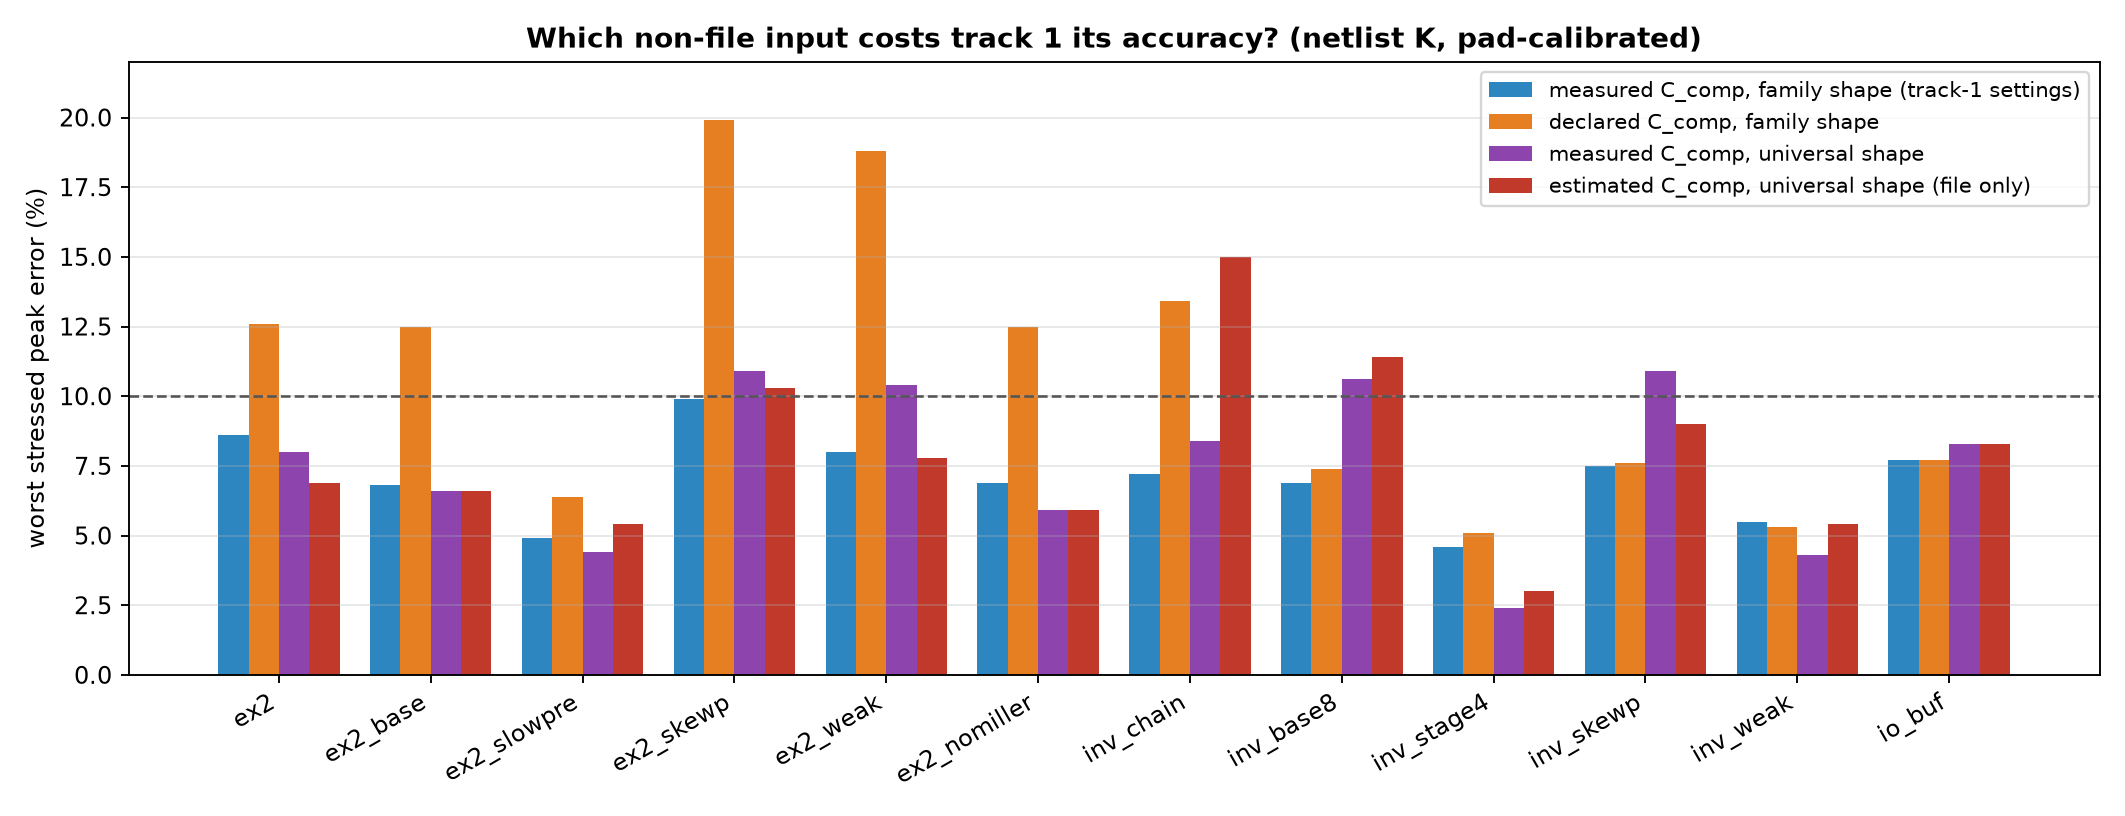
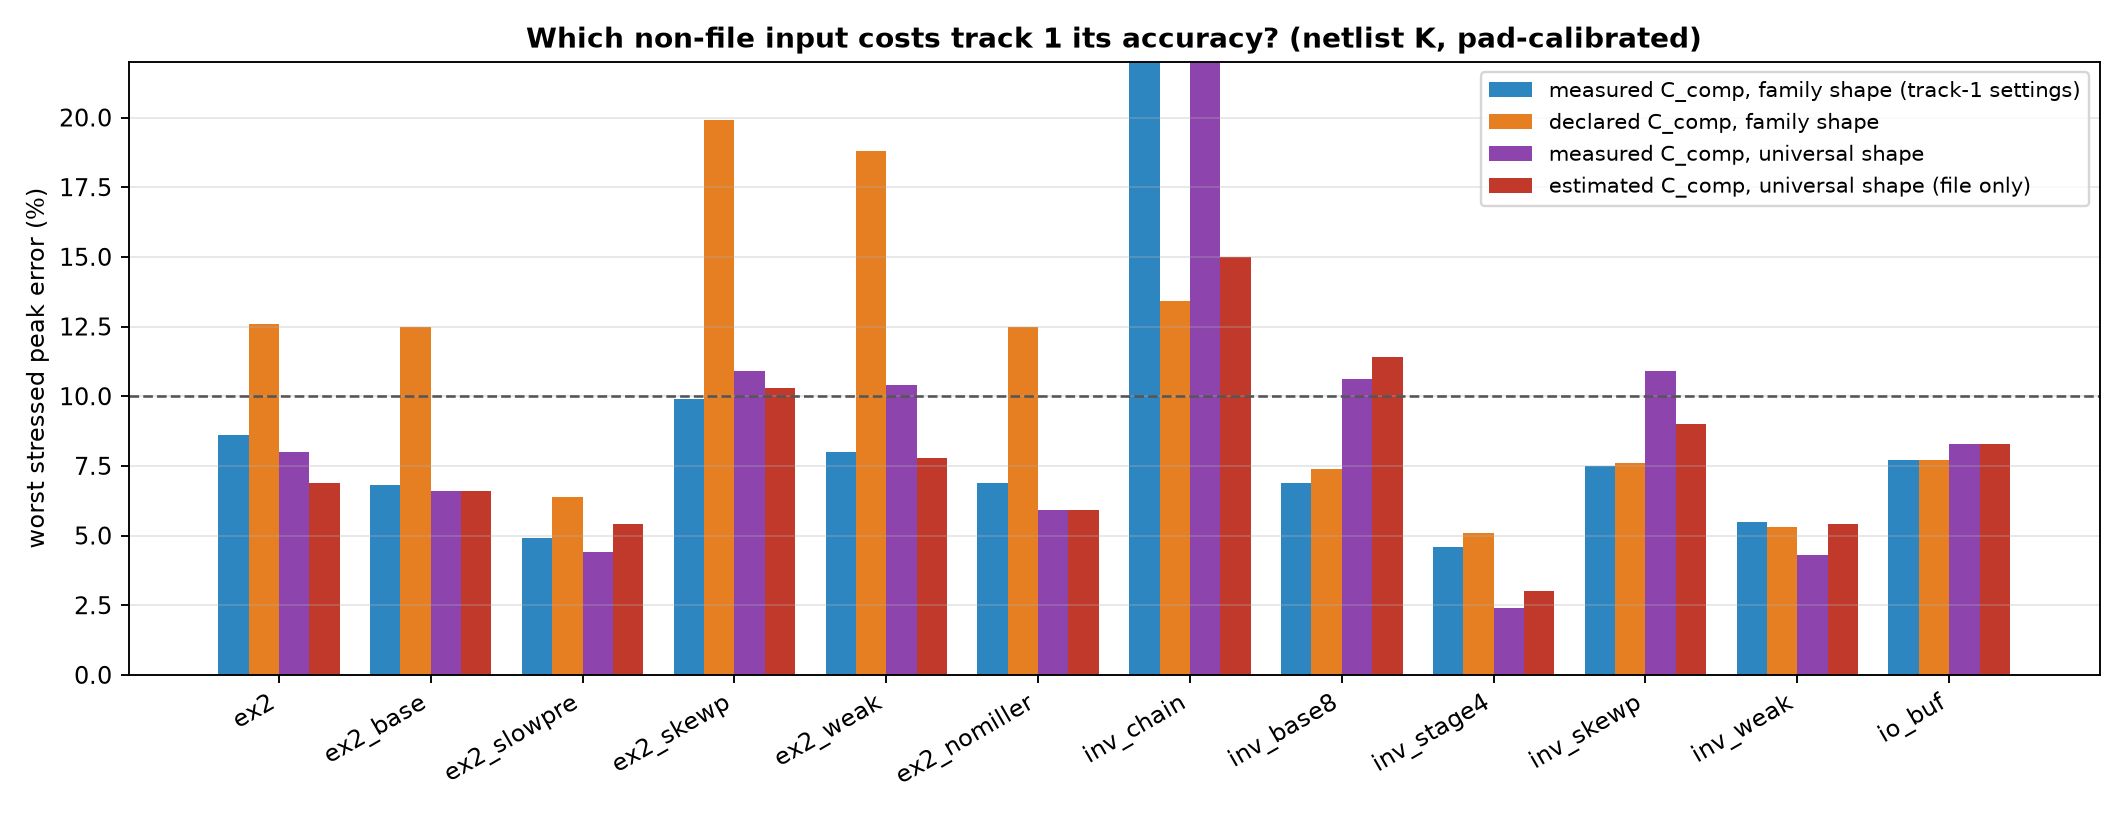
Rebuild the measured-C_comp passes on today's converter: inv_chain is 26 %, not 7
Steps 2 and 4b read shipped models cached on 2026-09-09, which carry input_threshold 1.4 V -
the 2 V Vinh inv_chain's IBIS declares on a 1.8 V part. Step 7 rebuilds both at the netlist K
with models generated today, where the converter clamps that to 0.9 V.

Only inv_chain moves: step 2 from 7.2 to 25.8 %, step 4b from 8.4 to 28.6 %. Every other
buffer is identical to the decimal, so the I-V clamping the converter also added changes
nothing on its own. The track-1 baseline is 11 of 12 within 10 %, not 12 of 12.

What inv_chain's error is: at the worst width its gate is right (0.95 against 0.94) and the
pad is still 26 % high, so it is the map, not the gate. The single-curve test removes the
handoff step between the file's two Ku curves (KUGATE_OFF := KUGATE_ON) and recovers a third
of it, 25.8 -> 17.4 %, with 15 ps better timing. The rest is still open: with one curve the
model is +16-17 % at the widths where its gate already matches.

Changed region(s): [[0.528, 0.0613, 0.5901, 0.5821]]

diff --git a/scripts/stage_count_from_file.py b/scripts/stage_count_from_file.py
@@ -20,6 +20,7 @@ calibrate the stage threshold on the one stressed pad run, score the five stress
     py -3.14 scripts/stage_count_from_file.py --step 4 [--workers 4]     # step 3's two inputs, one at a time
     py -3.14 scripts/stage_count_from_file.py --step 5 [--workers 4]     # file-only, C_comp from ccomp_from_file.py
     py -3.14 scripts/stage_count_from_file.py --step 6 [--workers 4]     # the whole chain from the file alone
+    py -3.14 scripts/stage_count_from_file.py --step 7 [--workers 8]     # steps 2 and 4b on today's converter
 
 Step 2 needs `--Kd` in gate_chain_prototype.py (io_buf's pull-down chain count), added 09-21.
 """
@@ -248,6 +249,7 @@ def summarise() -> None:
 FILE_MODELS = OUT / "file_only_models"          # shipped models at the declared C_comp
 EST_MODELS = OUT / "est_cc_models"              # shipped models at the file-only C_comp estimate
 KNEE_MODELS = OUT / "knee_models"               # shipped models at the knee estimate (step 6)
+MEAS_MODELS = OUT / "measured_cc_models"        # shipped models at the measured C_comp, today's converter
 PASSES = {"step2":  dict(pass_="as_track1", cc="measured", shape="family", models=None),
           "step3":  dict(pass_="file_only", cc="declared", shape="universal", models=FILE_MODELS),
           "step4a": dict(pass_="declared_cc_family_shape", cc="declared", shape="family", models=FILE_MODELS),
@@ -258,7 +260,12 @@ PASSES = {"step2":  dict(pass_="as_track1", cc="measured", shape="family", model
           # step 6: the whole chain from the file - C_comp from the overshoot knee (which can
           # correct upward, unlike step 5's cap at the declared value), K from the fit band and
           # the one stressed pad run's timing, universal shape
-          "step6":  dict(pass_="est_knee", cc="estimate_knee", shape="universal", models=KNEE_MODELS)}
+          "step6":  dict(pass_="est_knee", cc="estimate_knee", shape="universal", models=KNEE_MODELS),
+          # step 7: steps 2 and 4b again, with models generated by today's converter instead of
+          # the 2026-09-09 cache (input_threshold 1.4 -> 0.9 on the inverter chains, and the I-V
+          # lookups clamped to the table range on every buffer)
+          "step2f":  dict(pass_="as_track1_fresh", cc="measured", shape="family", models=MEAS_MODELS),
+          "step4bf": dict(pass_="measured_cc_universal_fresh", cc="measured", shape="universal", models=MEAS_MODELS)}
 EST_CC_CSV = ROOT / "results" / "ccomp_from_file_2026-09-22" / "ccomp_from_file.csv"
 EST_TOL = 0.02                                  # the Ku-overshoot tolerance the estimate uses
 
@@ -505,6 +512,25 @@ def plateau_band(dev: str, chain: str = "pull-up") -> list[int]:
     raise KeyError(f"no est_knee fit for {dev} {chain}")
 
 
+def step7(workers: int) -> None:
+    """Rebuild the measured-C_comp passes at the netlist K with today's converter (24 builds)."""
+    jobs = [(dev, BUFFERS[dev]["k_net"][0], BUFFERS[dev]["k_net"][1], step)
+            for step in ("step2f", "step4bf") for dev in BUFFERS]
+    todo = [j for j in jobs if not (build_dir(j[3], *j[:3]) or Path("_none")).joinpath("sweep.csv").exists()]
+    if len(todo) < len(jobs):
+        print(f"  {len(jobs) - len(todo)} builds already complete, skipped", flush=True)
+    print(f"step 7: {len(todo)} builds on {workers} workers", flush=True)
+    with ProcessPoolExecutor(max_workers=workers) as ex:
+        futs = {ex.submit(build_job, *j): j for j in todo}
+        for f in as_completed(futs):
+            j = futs[f]
+            try:
+                print(f"  done {j}: {f.result()}", flush=True)
+            except Exception as exc:
+                print(f"  FAILED {j}: {exc!r}", flush=True)
+    summarise4()
+
+
 def step6(workers: int, band: str = "plateau") -> None:
     """The whole recipe from the file: C_comp from the overshoot knee, K = 1...10 fitted to THAT
     model's full-swing Ku(t), a band of K built, and the K whose pad timing matches the one
@@ -602,10 +628,11 @@ def summarise4() -> None:
     matplotlib.use("Agg")
     import matplotlib.pyplot as plt
     have5 = (OUT / "step5").exists()
-    for s in ("step4a", "step4b") + (("step5",) if have5 else ()):
+    fresh = [s for s in ("step2f", "step4bf") if (OUT / s).exists()]
+    for s in ("step4a", "step4b") + (("step5",) if have5 else ()) + tuple(fresh):
         summarise2(s)
     rows = {}
-    for s in ("step2", "step3", "step4a", "step4b", "step5"):
+    for s in ("step2", "step3", "step4a", "step4b", "step5", "step2f", "step4bf"):
         p = OUT / f"{s}_summary.csv"
         if not p.exists():
             continue
@@ -624,6 +651,16 @@ def summarise4() -> None:
                     rows[(dev, s)] = rows[(dev, same)]
         if (dev, "step5") not in rows and (dev, "step3") in rows                 and abs(est_cc(dev) - declared[dev]) <= 0.01 * declared[dev]:
             rows[(dev, "step5")] = rows[(dev, "step3")]
+    # a pass rebuilt with today's converter replaces its cached original in the table
+    swapped = []
+    for stale, new in (("step2", "step2f"), ("step4b", "step4bf")):
+        for dev in BUFFERS:
+            if (dev, new) in rows:
+                was = rows.get((dev, stale), {}).get("worst_abs_pct", "")
+                now = rows[(dev, new)]["worst_abs_pct"]
+                rows[(dev, stale)] = rows[(dev, new)]
+                if was and abs(float(was) - float(now)) >= 0.5:
+                    swapped.append(f"{dev} {stale}: {was} -> {now} %")
     order = [("step2", "measured C_comp, family shape (track-1 settings)"),
              ("step4a", "declared C_comp, family shape"),
              ("step4b", "measured C_comp, universal shape"),
@@ -669,6 +706,8 @@ def summarise4() -> None:
     fig.tight_layout()
     fig.savefig(OUT / "step4_split.png", dpi=170)
     plt.close(fig)
+    if swapped:
+        print("  rebuilt with today's converter (was cached 09-09): " + "; ".join(swapped))
     print(f"  wrote step4_split.csv, step4_split.png")
 
 
@@ -791,7 +830,7 @@ def selectors(step: str = "step2") -> None:
 
 def main() -> int:
     ap = argparse.ArgumentParser()
-    ap.add_argument("--step", type=int, choices=(1, 2, 3, 4, 5, 6), required=True)
+    ap.add_argument("--step", type=int, choices=(1, 2, 3, 4, 5, 6, 7), required=True)
     ap.add_argument("--workers", type=int, default=4)
     ap.add_argument("--summarise", action="store_true")
     ap.add_argument("--band", choices=("plateau", "fit", "family"), default="plateau",
@@ -806,6 +845,8 @@ def main() -> int:
         summarise4() if args.summarise else step5(args.workers)
     elif args.step == 6:
         summarise6() if args.summarise else step6(args.workers, args.band)
+    elif args.step == 7:
+        summarise4() if args.summarise else step7(args.workers)
     else:
         step = f"step{args.step}"
         summarise2(step) if args.summarise else step2(args.workers, step)

diff --git a/scripts/inv_chain_single_curve.py b/scripts/inv_chain_single_curve.py
@@ -1,0 +1,105 @@
+#!/usr/bin/env python3
+"""Is inv_chain's 26 % the handoff between the two Ku curves?
+
+At the track-1 settings inv_chain's gate is right at the worst width (0.95 against a
+transistor 0.94) and its pad is still 26 % high, so the error is in the map, not the gate.
+The suspect is the handoff: the file's falling Ku table sits ~19 ps early against the gate, so
+KUGATE_OFF reads 0.49 where KUGATE_ON reads 0.96 at the same gate. A stressed pulse turns
+round in exactly that region.
+
+Three builds of the same model, differing only in the pull-up map:
+
+    as_built   the file's two curves (the step-7 build, reproduced here as the control)
+    one_curve  KUGATE_OFF := KUGATE_ON - one curve both ways, no handoff step at all
+    average    KUGATE_OFF := (KUGATE_ON + KUGATE_OFF) / 2 - half the step
+
+If the 26 % collapses under one_curve, the handoff is the cause. If it does not, the map is
+wrong in a way the two curves share.
+
+Output: results/inv_chain_single_curve_2026-09-22/
+
+    py -3.14 scripts/inv_chain_single_curve.py
+"""
+from __future__ import annotations
+
+import contextlib
+import csv
+import io
+import re
+import shutil
+import sys
+from pathlib import Path
+
+ROOT = Path(__file__).resolve().parents[1]
+for _p in (ROOT / "scripts", ROOT / "tools" / "pybis2spice", ROOT / ".codex_deps" / "presentation" / "python"):
+    if str(_p) not in sys.path:
+        sys.path.insert(0, str(_p))
+
+import numpy as np  # noqa: E402
+import stage_count_from_file as sc  # noqa: E402
+
+OUT = ROOT / "results" / "inv_chain_single_curve_2026-09-22"
+DEV, K, CC = "inv_chain", 7, 0.6
+SRC = sc.MEAS_MODELS / f"{DEV}_c{CC:g}" / "shipped" / "driver.sub"       # step 7's model, today's converter
+
+
+def table(text: str, name: str):
+    """The (gate, value) pairs of one B-source pwl table, with the text around it."""
+    line = re.search(rf"^B{name} {name} 0 V = pwl\(.*$", text, re.M).group(0)
+    head, body = line.split("), 1),", 1)
+    nums = [float(x) for x in re.findall(r"[-+]?\d*\.?\d+(?:[eE][-+]?\d+)?", body)]
+    return line, head + "), 1),", np.array(nums).reshape(-1, 2)
+
+
+def remap(text: str, mode: str) -> str:
+    if mode == "as_built":
+        return text
+    on_line, _on_head, on = table(text, "KUGATE_ON")
+    off_line, off_head, off = table(text, "KUGATE_OFF")
+    off_at_on_gate = np.interp(on[:, 0], off[:, 0], off[:, 1])
+    y = on[:, 1] if mode == "one_curve" else 0.5 * (on[:, 1] + off_at_on_gate)
+    new = off_head + " " + ", ".join(f"{g:.6g}, {v:.6g}" for g, v in zip(on[:, 0], y)) + ")"
+    return text.replace(off_line, new)
+
+
+def main() -> int:
+    OUT.mkdir(parents=True, exist_ok=True)
+    gp, gch, _ = sc._modules()
+    base = SRC.read_text(encoding="utf-8")
+    rows = []
+    for mode in ("as_built", "one_curve", "average"):
+        mdir = OUT / "models" / f"{DEV}_c{CC:g}" / "shipped"
+        mdir.mkdir(parents=True, exist_ok=True)
+        (mdir / "driver.sub").write_text(remap(base, mode), encoding="utf-8")
+        shutil.rmtree(OUT / mode, ignore_errors=True)
+        gch.OUT = OUT / mode
+        gch.G = OUT / "models"
+        sys.argv = ["gate_chain_prototype", "--variant", DEV, "--source", "ibis", "--maps", "prior",
+                    "--K", str(K), "--calib-pad", str(sc.BUFFERS[DEV]["calib"]),
+                    "--ccomp", f"{CC:g}", "--prior", "0.49", "0.6"]
+        log = io.StringIO()
+        with contextlib.redirect_stdout(log):
+            gch.main()
+        (OUT / mode).mkdir(parents=True, exist_ok=True)
+        (OUT / mode / "run.log").write_text(log.getvalue(), encoding="utf-8")
+        for p in sorted((OUT / mode / f"{DEV}_c{CC:g}").glob(f"ibis_prior_K{K}_*/sweep.csv")):
+            for r in list(csv.DictReader(p.open())):
+                pk = [float(v) for k, v in r.items() if k.startswith("pk_d")]
+                lag = [float(v) for k, v in r.items() if k.startswith("lag_d")]
+                rows.append(dict(mode=mode, model="shipped" if not r["K"] else f"chain K={r['K']}",
+                                 worst_peak_pct=f"{max(map(abs, pk)):.1f}",
+                                 peaks_pct=" / ".join(f"{x:+.1f}" for x in pk),
+                                 lag_ps=" / ".join(f"{x:.0f}" for x in lag),
+                                 full_pad_rms_mV=r["full_pad_rms_mV"],
+                                 gate=" / ".join(v for k, v in r.items() if k.startswith("gate_d"))))
+        print(f"  {mode:10s} " + (rows[-1]["worst_peak_pct"] + " %  " + rows[-1]["peaks_pct"] if rows else "no result"), flush=True)
+    with (OUT / "single_curve.csv").open("w", newline="") as fh:
+        w = csv.DictWriter(fh, fieldnames=list(rows[0]))
+        w.writeheader()
+        w.writerows(rows)
+    print(f"wrote {OUT / 'single_curve.csv'}")
+    return 0
+
+
+if __name__ == "__main__":
+    raise SystemExit(main())

diff --git a/scripts/make_results_index.py b/scripts/make_results_index.py
@@ -21,7 +21,7 @@ GROUPS = [
      r"^(gate_chain_prototype|stage_count_from_file|build_chain_model|gate_cascade_prototype|gate_ramp_prototype|"
      r"gate_step_prototype|gate_chain_train_calib|predriver_stages|physics_map_gate|current_limited_stages|gate_physics|"
      r"full_swing_fixtures|full_swing_silicon_kukd|residual_depth_rule|variant_gate_probe|silicon_kukd_conditioning_2026-09|"
-     r"ex2_ccomp_correction|edge_rate_check|two_pulse|review_|ccomp_from_file)"),
+     r"ex2_ccomp_correction|edge_rate_check|two_pulse|review_|ccomp_from_file|inv_chain_single_curve)"),
     ("Pulse trains", "", r"^(pulse_train|track2_train_check|variant_train_check)"),
     ("Open-drain", "", r"^(opendrain_|s2ibispy_parameter_selection_ex2_od_)"),
     ("Native IBIS behaviour", "", r"^native_"),

diff --git a/results/stage_count_from_file_2026-09-21/FINDINGS.md b/results/stage_count_from_file_2026-09-21/FINDINGS.md
@@ -125,13 +125,13 @@ against 54 mV).
 | ex2_skewp | 9.9 | 20.4 |
 | ex2_weak | 8.0 | 19.4 |
 | ex2_nomiller | 6.9 | 14.1 |
-| inv_chain | 7.2 | 15.0 (K = 6: 12.8) |
+| inv_chain | 25.8 | 15.0 (K = 6: 12.8) |
 | inv_base8 | 6.9 | 12.5 |
 | inv_stage4 | 4.6 | 3.6 |
 | inv_skewp | 7.5 | 9.5 |
 | inv_weak | 5.5 | 6.1 |
 | io_buf | 7.7 | 8.3 |
-| **within +-10 %** | **12 of 12** | **5 of 12** |
+| **within +-10 %** | **11 of 12** | **5 of 12** |
 
 The ex2-family misses are one-sided: 12-22 % low at the mildest widths, near zero at the 50 %
 width where the threshold is placed. Step 3 changed two inputs at once, so which one costs the
@@ -157,13 +157,18 @@ Worst stressed peak error at the netlist K (%):
 | ex2_skewp | 9.9 | 19.9 | 10.9 | 20.4 |
 | ex2_weak | 8.0 | 18.8 | 10.4 | 19.4 |
 | ex2_nomiller | 6.9 | 12.5 | 5.9 | 14.1 |
-| inv_chain | 7.2 | 13.4 | 8.4 | 15.0 |
+| inv_chain | 25.8 | 13.4 | 28.6 | 15.0 |
 | inv_base8 | 6.9 | 7.4 | 10.6 | 12.5 |
 | inv_stage4 | 4.6 | 5.1 | 2.4 | 3.6 |
 | inv_skewp | 7.5 | 7.6 | 10.9 | 9.5 |
 | inv_weak | 5.5 | 5.3 | 4.3 | 6.1 |
 | io_buf | 7.7 | 7.7 | 8.3 | 8.3 |
-| **within ±10 %** | **12 of 12** | **6 of 12** | **8 of 12** | **5 of 12** |
+| **within ±10 %** | **11 of 12** | **6 of 12** | **7 of 12** | **5 of 12** |
+
+*(Corrected by step 7 on 09-22: the table now uses models generated by today's converter
+throughout. Only inv_chain moved - step 2 from 7.2 to 25.8 %, step 4b from 8.4 to 28.6 % - so
+the counts fell by one. Every other buffer is identical to the decimal, which also shows the
+I-V clamping the converter added changes nothing on its own.)*
 
 * **ex2 family and inv_chain: the declared C_comp is the whole loss.** The declared C_comp
   alone (4a) lands within 1.6 points of step 3 on all seven. The universal shape alone (4b)
@@ -261,8 +266,50 @@ inverter-chain buffers (1.4 -> 0.9); the ex2 family and io_buf are identical in 
 
 inv_chain aside, this means **the model's real error on inv_chain is about 26-29 %, not the
 7-8 % steps 2-5 reported** - and that is a property of the shipped gate-state build, not of
-track 1. Rebuilding steps 2 and 4b for the five inverter chains with today's converter is the
-fix; not done yet.
+track 1. Step 7 rebuilds steps 2 and 4b on today's converter so the tables compare one
+version.
+
+### What inv_chain's error actually is: a gate cliff where the transistor has a ramp
+
+Per width (135 / 119 / 111 / 106 / 104 ps), from the step-6 sweep:
+
+| | 135 | 119 | 111 | 106 | 104 |
+|---|---:|---:|---:|---:|---:|
+| transistor gate maximum | 1.00 | 0.99 | 0.97 | 0.94 | 0.88 |
+| our gate maximum (K = 6) | 1.00 | 1.00 | 1.00 | 1.00 | 0.84 |
+| pad peak error | +2.4 | +8.7 | +19.5 | **+34.2** | +15.9 % |
+| the shipped model, same widths | +1.6 | +7.1 | +18.0 | +36.5 | +65.1 % |
+
+The real gate rolls off gently as the pulse narrows; ours stays pinned at 1.00 until it
+collapses at the last width. At 106 ps a gate deficit of 0.06 costs 34 % on the pad, in line
+with the known sensitivity (~4 % pad per 0.01 of gate). ex2, where the same recipe works,
+tracks the partial gate at every width (0.91/0.84/0.80/0.75/0.71 against 0.94/0.88/0.84/0.80/
+0.76) and stays within 8 %.
+
+So inv_chain's failure is not the stage count - K = 6, 7 and 8 all sit at 1.00 at 106 ps - and
+not C_comp. It is the same pulse-swallowing cliff seen on 09-10: between passing the pulse
+whole and swallowing it, our chain has no gradual region. Our chain still beats the shipped
+model only at the deepest width (+15.9 against +65.1).
+
+**The rebuild (step 7) then moved the diagnosis.** At the track-1 settings with today's
+converter, inv_chain is **25.8 %**, not the 7.2 % the cached build reported:
+
+| | 135 | 119 | 111 | 106 | 104 |
+|---|---:|---:|---:|---:|---:|
+| shipped model, pad | +1.7 | +8.4 | +18.2 | +36.7 | +65.9 % |
+| our chain K = 7, pad | +3.0 | +9.6 | +19.2 | **+25.8** | +4.1 % |
+| our gate / transistor gate | 1.00/1.00 | 1.00/0.99 | 0.99/0.97 | **0.95/0.94** | 0.77/0.88 |
+
+At the worst width the gate is right (0.95 against 0.94) and the pad is still 26 % high; at
+the narrowest the gate is 0.11 *low* and the pad is only 4 % high. **The pad error does not
+follow the gate error**, so the gate cliff is not the main cause on this buffer - the Ku-vs-gate
+map is. That is inv_chain's known handoff discontinuity: the file's falling Ku curve sits 19 ps
+early against the gate, so ku_fall reads 0.49 where ku_rise reads 0.96 at the same gate.
+
+Next test, in order: (1) one Ku curve used both ways (ku_fall := ku_rise, and the average of
+the two) - if the 26 % collapses, the handoff is the cause; (2) the calibration width, which
+is currently the deepest and sits at the cliff edge - it also answers which stressed pulse the
+single characterisation run should use.
 
 ## Step 5 (09-22): C_comp from the file, and track 1 reaches 9 of 12
 

diff --git a/results/inv_chain_single_curve_2026-09-22/FINDINGS.md b/results/inv_chain_single_curve_2026-09-22/FINDINGS.md
@@ -1,0 +1,47 @@
+# Is inv_chain's 26 % the handoff between the two Ku curves? - findings
+
+*2026-09-22* · script `scripts/inv_chain_single_curve.py` · follows step 7 of
+`results/stage_count_from_file_2026-09-21`
+
+## Why ask
+
+With today's converter (input threshold clamped to 0.9 V) inv_chain's error at the track-1
+settings is **25.8 %**, not the 7.2 % the cached 09-09 models reported. At the worst width its
+gate is right - 0.95 against the transistor's 0.94 - and the pad is still 26 % high, so the
+error is in the map, not the gate. The suspect: the file's falling Ku table sits ~19 ps early
+against the gate, so `KUGATE_OFF` reads 0.49 where `KUGATE_ON` reads 0.96 at the same gate,
+and a stressed pulse turns round in exactly that region.
+
+## The test
+
+Three builds of one model (K = 7, C_comp 0.60, family shape), differing only in the pull-up
+map: the file's two curves as built; `KUGATE_OFF := KUGATE_ON` (one curve both ways, no
+handoff step); and the average of the two. `single_curve.csv`.
+
+| map | worst peak | peaks, 135 / 119 / 111 / 106 / 104 ps | lag (ps) | full swing |
+|---|---:|---|---|---:|
+| as built | 25.8 % | +3.0 / +9.6 / +19.2 / +25.8 / +4.1 | 44-67 | 54 mV |
+| **one curve** | **17.4 %** | +2.4 / +8.0 / +16.2 / +17.4 / -10.7 | 33-50 | 39 mV |
+| average | 24.4 % | +0.2 / +5.7 / +14.6 / +24.4 / -3.1 | 69-100 | 89 mV |
+
+## What it says
+
+* **The handoff is worth about a third of the error**: 25.8 -> 17.4 %, and the pad arrives
+  ~15 ps earlier as well. Removing the step between the two curves helps on every width.
+* **It is not the whole story.** With one curve the model is still +16-17 % at 111 and 106 ps,
+  the widths where its gate already matches the transistor to 0.01-0.02. Something other than
+  the gate and other than the handoff over-drives the pad there.
+* **Averaging the curves is not a fix** - it halves the step but costs 25-35 ps of timing and
+  doubles the full-swing error, because it drags the rising branch down as well.
+* The same map edit moves the shipped model by only 1-2 points (65.9 -> 64.0 %), so the
+  handoff matters to the chain build, not to the shipped one. The shipped model's 66 % at the
+  narrowest width is a separate, larger failure.
+
+## Open
+
+What over-drives the pad at 106-111 ps with the gate correct and the handoff removed. Two
+candidates, neither tested: the rising branch's **level** (inv_chain's map is a 2-parameter
+prior fitted to the file, vt 0.49 / alpha 0.60 - the measured Ku-vs-gate curve may sit lower),
+and the **timing** of the drive (the build still lands 33-50 ps late, and a late drive on a
+pad that is still rising reads as a higher peak). The track-2 measured map for inv_chain is
+the direct way to separate them.

diff --git a/results/INDEX.md b/results/INDEX.md
@@ -2,7 +2,7 @@
 
 One line per study folder, grouped by line of work, newest first within a group.
 Generated by `python scripts/make_results_index.py` - rerun it after adding or archiving a
-study. 69 folders.
+study. 70 folders.
 
 - A study folder is `results/<topic>_<YYYY-MM-DD>/`, written by `scripts/<topic>.py` (the
   "written by" column), with its conclusions in `FINDINGS.md` (or `README.md`).
@@ -15,6 +15,7 @@ The current work. The chain is fitted to the IBIS file's Ku(t) (track 1) or to a
 
 | folder | what it is | write-up | written by |
 |---|---|---|---|
+| `inv_chain_single_curve_2026-09-22` | Is inv_chain's 26 % the handoff between the two Ku curves? | FINDINGS.md | `scripts/inv_chain_single_curve.py` |
 | `ccomp_from_file_2026-09-22` | Can C_comp be recovered from the IBIS file alone? | FINDINGS.md | `scripts/ccomp_from_file.py` |
 | `stage_count_from_file_2026-09-21` | Can track 1 find the predriver stage count from the IBIS file? | FINDINGS.md PLAN.md | `scripts/stage_count_from_file.py` |
 | `edge_rate_check_2026-09-17` | Does model accuracy depend on the input edge rate? | README.md (generated) | `scripts/edge_rate_check.py` |
